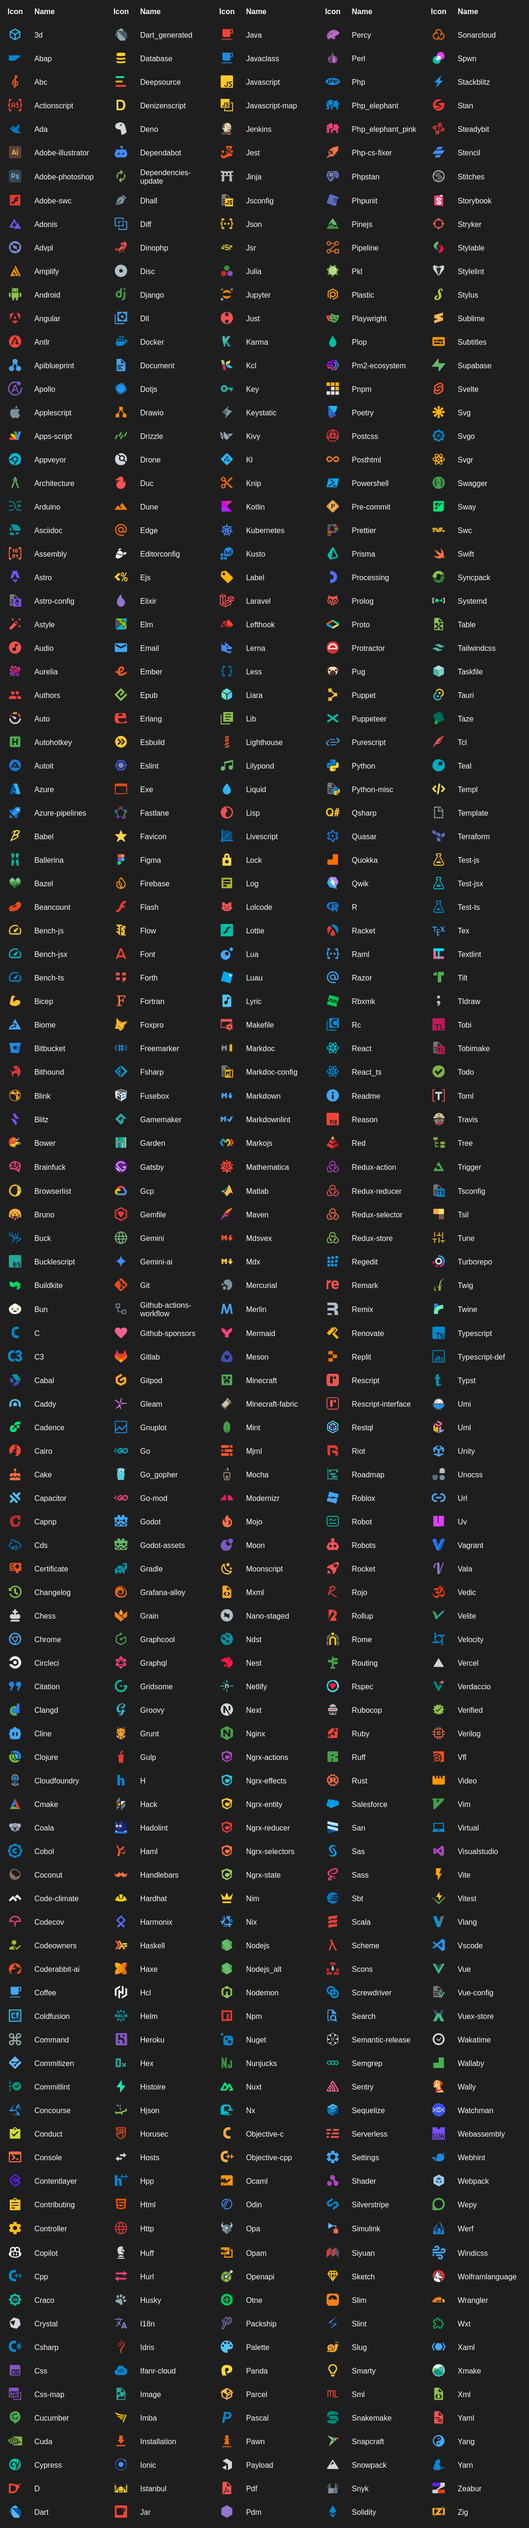
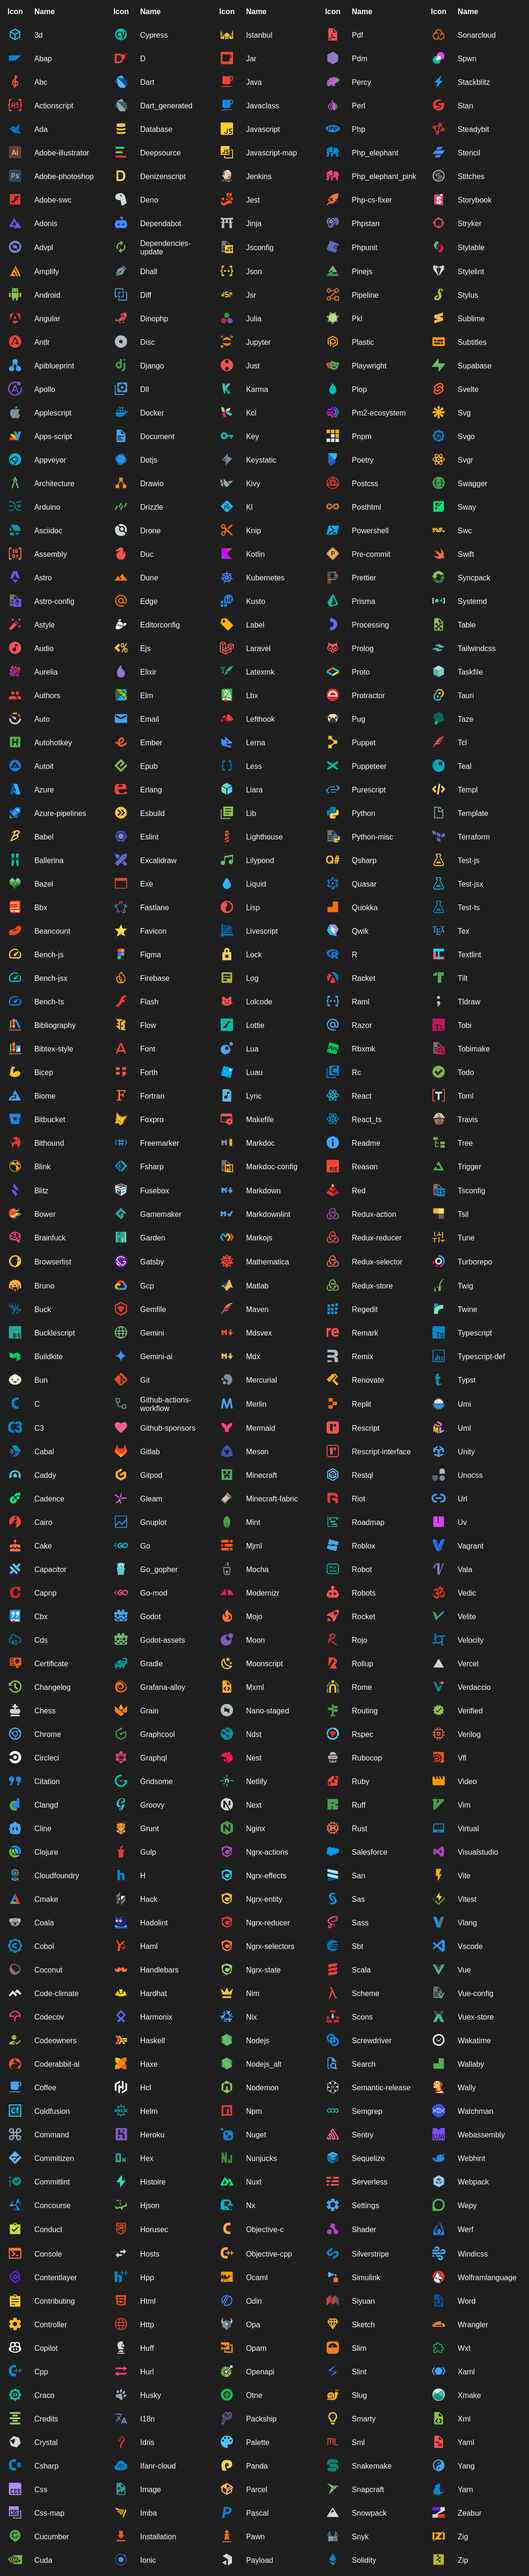
release: 🔖 v1.23.1

diff --git a/CHANGELOG.md b/CHANGELOG.md
@@ -3,10 +3,21 @@
  All notable changes to this project will be documented in this file. Dates are displayed in UTC.
 
  
+#### [v1.23.1](https://github.com/lucodear/lucodear-icons/compare/v1.23.0...v1.23.1) 
+
+> May 12, 2025 
+
+- feat: ✨ update CSS icons to new design [`41c6b000`](https://github.com/lucodear/lucodear-icons/commit/41c6b000)
+- feat: add icons for `*.bib` files and BibTeX language IDs [`#2986`](https://github.com/lucodear/lucodear-icons/pull/2986)
+- feat: add new icons for TeX/LaTeX related files [`#2997`](https://github.com/lucodear/lucodear-icons/pull/2997)
+- feat(icons): add Excalidraw icon [`#2995`](https://github.com/lucodear/lucodear-icons/pull/2995)
+- feat: add icon for links folder [`#2987`](https://github.com/lucodear/lucodear-icons/pull/2987)
+ 
 #### [v1.23.0](https://github.com/lucodear/lucodear-icons/compare/v1.22.0...v1.23.0) 
 
 > April 30, 2025 
 
+- release: 🔖 v1.23.0 [`d7c31e1b`](https://github.com/lucodear/lucodear-icons/commit/d7c31e1b)
 - feat: add 'satlite' folder [`26799abf`](https://github.com/lucodear/lucodear-icons/commit/26799abf)
 - chore(deps): update dependency bun to v1.2.11 [`#2994`](https://github.com/lucodear/lucodear-icons/pull/2994)
 - feat: recreate different icons for hooks and triggers folders [`#2985`](https://github.com/lucodear/lucodear-icons/pull/2985)
